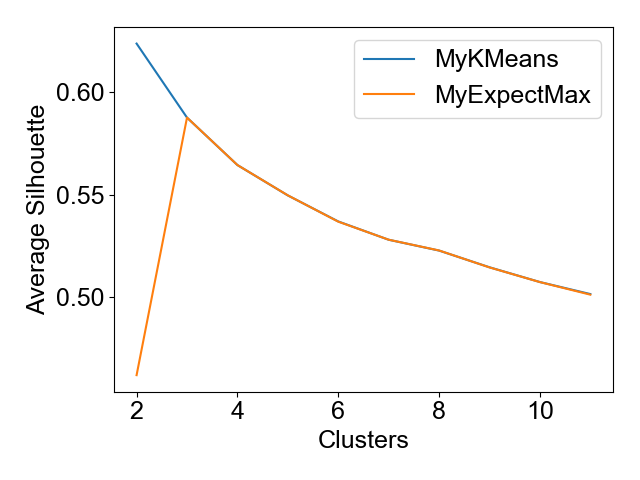
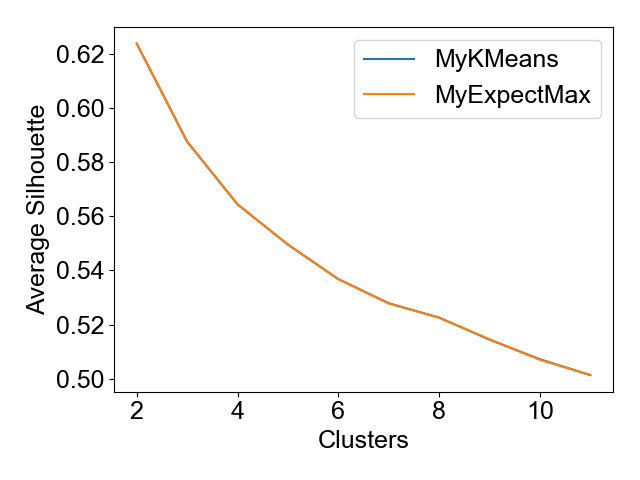
Make MyExpectMax match MyKMeans

diff --git a/dim_reduce.py b/dim_reduce.py
@@ -1,54 +1,11 @@
 #!/usr/bin/env python3
 
-import numpy as np
-import time
-import string
-import pprint
-import itertools
-import matplotlib.pyplot as plt
+# https://github.com/mGalarnyk/Python_Tutorials/blob/master/Sklearn/PCA/PCA_to_Speed-up_Machine_Learning_Algorithms.ipynb
+
 import pandas as pd
+import numpy as np
 from sklearn.datasets import make_blobs
-from sklearn.metrics import silhouette_score
-from classes.my_k_means import MyKMeans
-from classes.my_expect_max import MyExpectMax
-
-def scatter_stuff(X, y, centers, name):
-    plt.scatter(X[:, 0], X[:, 1], c=y, s=10)
-    plt.scatter(centers[:, 0], centers[:, 1], c='black', s=200, marker='x')
-    plt.xlabel('x1', fontsize=18, fontname='Arial')
-    plt.ylabel('x2', fontsize=18, fontname='Arial')
-    plt.tight_layout()
-    plt.savefig(f"{name}_scatter.png")
-#    plt.show()
-
-def plot_stuff(cluster_counts, k_means, expect_max, name):
-    font = { 'family': 'Arial', 'size': 18 }
-    plt.rc('font', **font)
-#    plt.plot(cluster_counts, k_means, label='MyKMeans')
-    plt.plot(cluster_counts, expect_max, label='MyExpectMax')
-    plt.ylabel('Average Silhouette', fontsize=18, fontname='Arial')
-    plt.xlabel('Clusters', fontsize=18, fontname='Arial')
-    plt.tight_layout()
-    plt.legend()
-    plt.savefig(f"{name}.png")
-#    plt.show()
-
-def lowest_label_error(labels1, labels2):
-    n_labels = np.unique(labels1).shape[0]
-    masks1 = np.zeros((n_labels, labels1.shape[0]), dtype=bool)
-    masks2 = np.copy(masks1)
-    for i in range(n_labels):
-        masks1[i] = np.array([label == i for label in labels1])
-    for i in range(n_labels):
-        masks2[i] = np.array([label == i for label in labels2])
-
-    lowest_error = np.inf
-    for masks2_perm in itertools.permutations(masks2):
-        error = np.count_nonzero(masks1 != masks2_perm)
-        if error < lowest_error:
-            lowest_error = error
-    return lowest_error
-
+from sklearn.decomposition import PCA, FastICA
 
 target = 'quality'
 train = pd.read_csv(f'wine_train.csv')
@@ -63,62 +20,16 @@ X = np.array(train.drop(target, axis=1))
 #    n_samples=1000,
 #    random_state=11
 #)
-#print('score:', silhouette_score(X, y))
 
-np.random.seed(11)
-random_states = np.random.choice(range(1000), size=5, replace=False)
+#print(X.shape)
+#print(X)
+#print('-')
 
-metrics = {
-    'MyKMeans': {'score': -1},
-    'MyExpectMax': {'score': -1}
-}
+pca = PCA(n_components=0.95)
+pca.fit(X)
+X = pca.transform(X)
 
-k_means_scores = []
-expexct_max_scores = []
-cluster_counts = []
-total_start_time = time.time()
-for n_clusters in range(2, 12):
-    best_score = {'MyKMeans': -1, 'MyExpectMax': -1}
-    for cluster_std in [100, 500, 1000]:
-        for random_state in [464]:
-#        for random_state in random_states:
-            clusterers = [
-#                MyKMeans(data=X, n_clusters=n_clusters, random_state=random_state),
-                MyExpectMax(data=X, n_clusters=n_clusters, random_state=random_state, cluster_std=cluster_std)
-            ]
-
-            for clusterer in clusterers:
-                start_time = time.time()
-                cluster_labels, centers, iters = clusterer.run()
-                elapsed = round(time.time() - start_time, 3)
-                score = silhouette_score(X, cluster_labels)
-
-                alg = clusterer.__class__.__name__
-
-#                scatter_stuff(X, cluster_labels, centers, alg)
-
-                if score > metrics[alg]['score'] or \
-                   (score == metrics[alg]['score'] and \
-                   (iters < metrics[alg]['iters'] or elapsed < metrics[alg]['elapsed'])):
-                    metrics[alg]['score'] = score
-                    metrics[alg]['n_clusters'] = n_clusters
-                    metrics[alg]['random_state'] = random_state
-                    metrics[alg]['iters'] = iters
-                    metrics[alg]['elapsed'] = elapsed
-                    metrics[alg]['cluster_std'] = cluster_std
-    #                metrics[alg]['error'] = lowest_label_error(cluster_labels, y)
-
-                if score > best_score[alg]:
-                    best_score[alg] = score
-
-        k_means_scores.append(best_score['MyKMeans'])
-        expexct_max_scores.append(best_score['MyExpectMax'])
-        cluster_counts.append(n_clusters)
-
-#print('k_means_scores:', k_means_scores)
-#print('expexct_max_scores:', expexct_max_scores)
-
-pprint.PrettyPrinter(indent=4).pprint(metrics)
-print('total_elapsed:', time.time() - total_start_time)
-
-plot_stuff(cluster_counts, k_means_scores, expexct_max_scores, 'wine')
+print(X.shape)
+print(pca.components_)
+print(pca.explained_variance_ratio_)
+#print(X)

diff --git a/main.py b/main.py
@@ -67,7 +67,7 @@ X = np.array(train.drop(target, axis=1))
 
 np.random.seed(11)
 #random_states = np.random.choice(range(1000), size=5, replace=False)
-random_states =  [464]
+random_states =  [25]
 
 metrics = {
     'MyKMeans': {'score': -1},
@@ -80,10 +80,10 @@ cluster_counts = []
 total_start_time = time.time()
 for n_clusters in range(2, 12):
     best_score = {'MyKMeans': -1, 'MyExpectMax': -1}
-    for cluster_std in [1000]:
+    for cluster_std in [10000]:
         for random_state in random_states:
             clusterers = [
-                MyKMeans(data=X, n_clusters=n_clusters, random_state=25),
+                MyKMeans(data=X, n_clusters=n_clusters, random_state=random_state),
                 MyExpectMax(data=X, n_clusters=n_clusters, random_state=random_state, cluster_std=cluster_std)
             ]
 

diff --git a/saved_results.py b/saved_results.py
@@ -56,3 +56,18 @@
                     'random_state': 464,
                     'score': 0.6238198074799757}}
 total_elapsed: 765.8304150104523
+
+# best one
+{   'MyExpectMax': {   'cluster_std': 10000,
+                       'elapsed': 2.581,
+                       'iters': 13,
+                       'n_clusters': 2,
+                       'random_state': 25,
+                       'score': 0.6238179528852561},
+    'MyKMeans': {   'cluster_std': 10000,
+                    'elapsed': 1.082,
+                    'iters': 10,
+                    'n_clusters': 2,
+                    'random_state': 25,
+                    'score': 0.6238198074799757}}
+total_elapsed: 750.6363530158997
